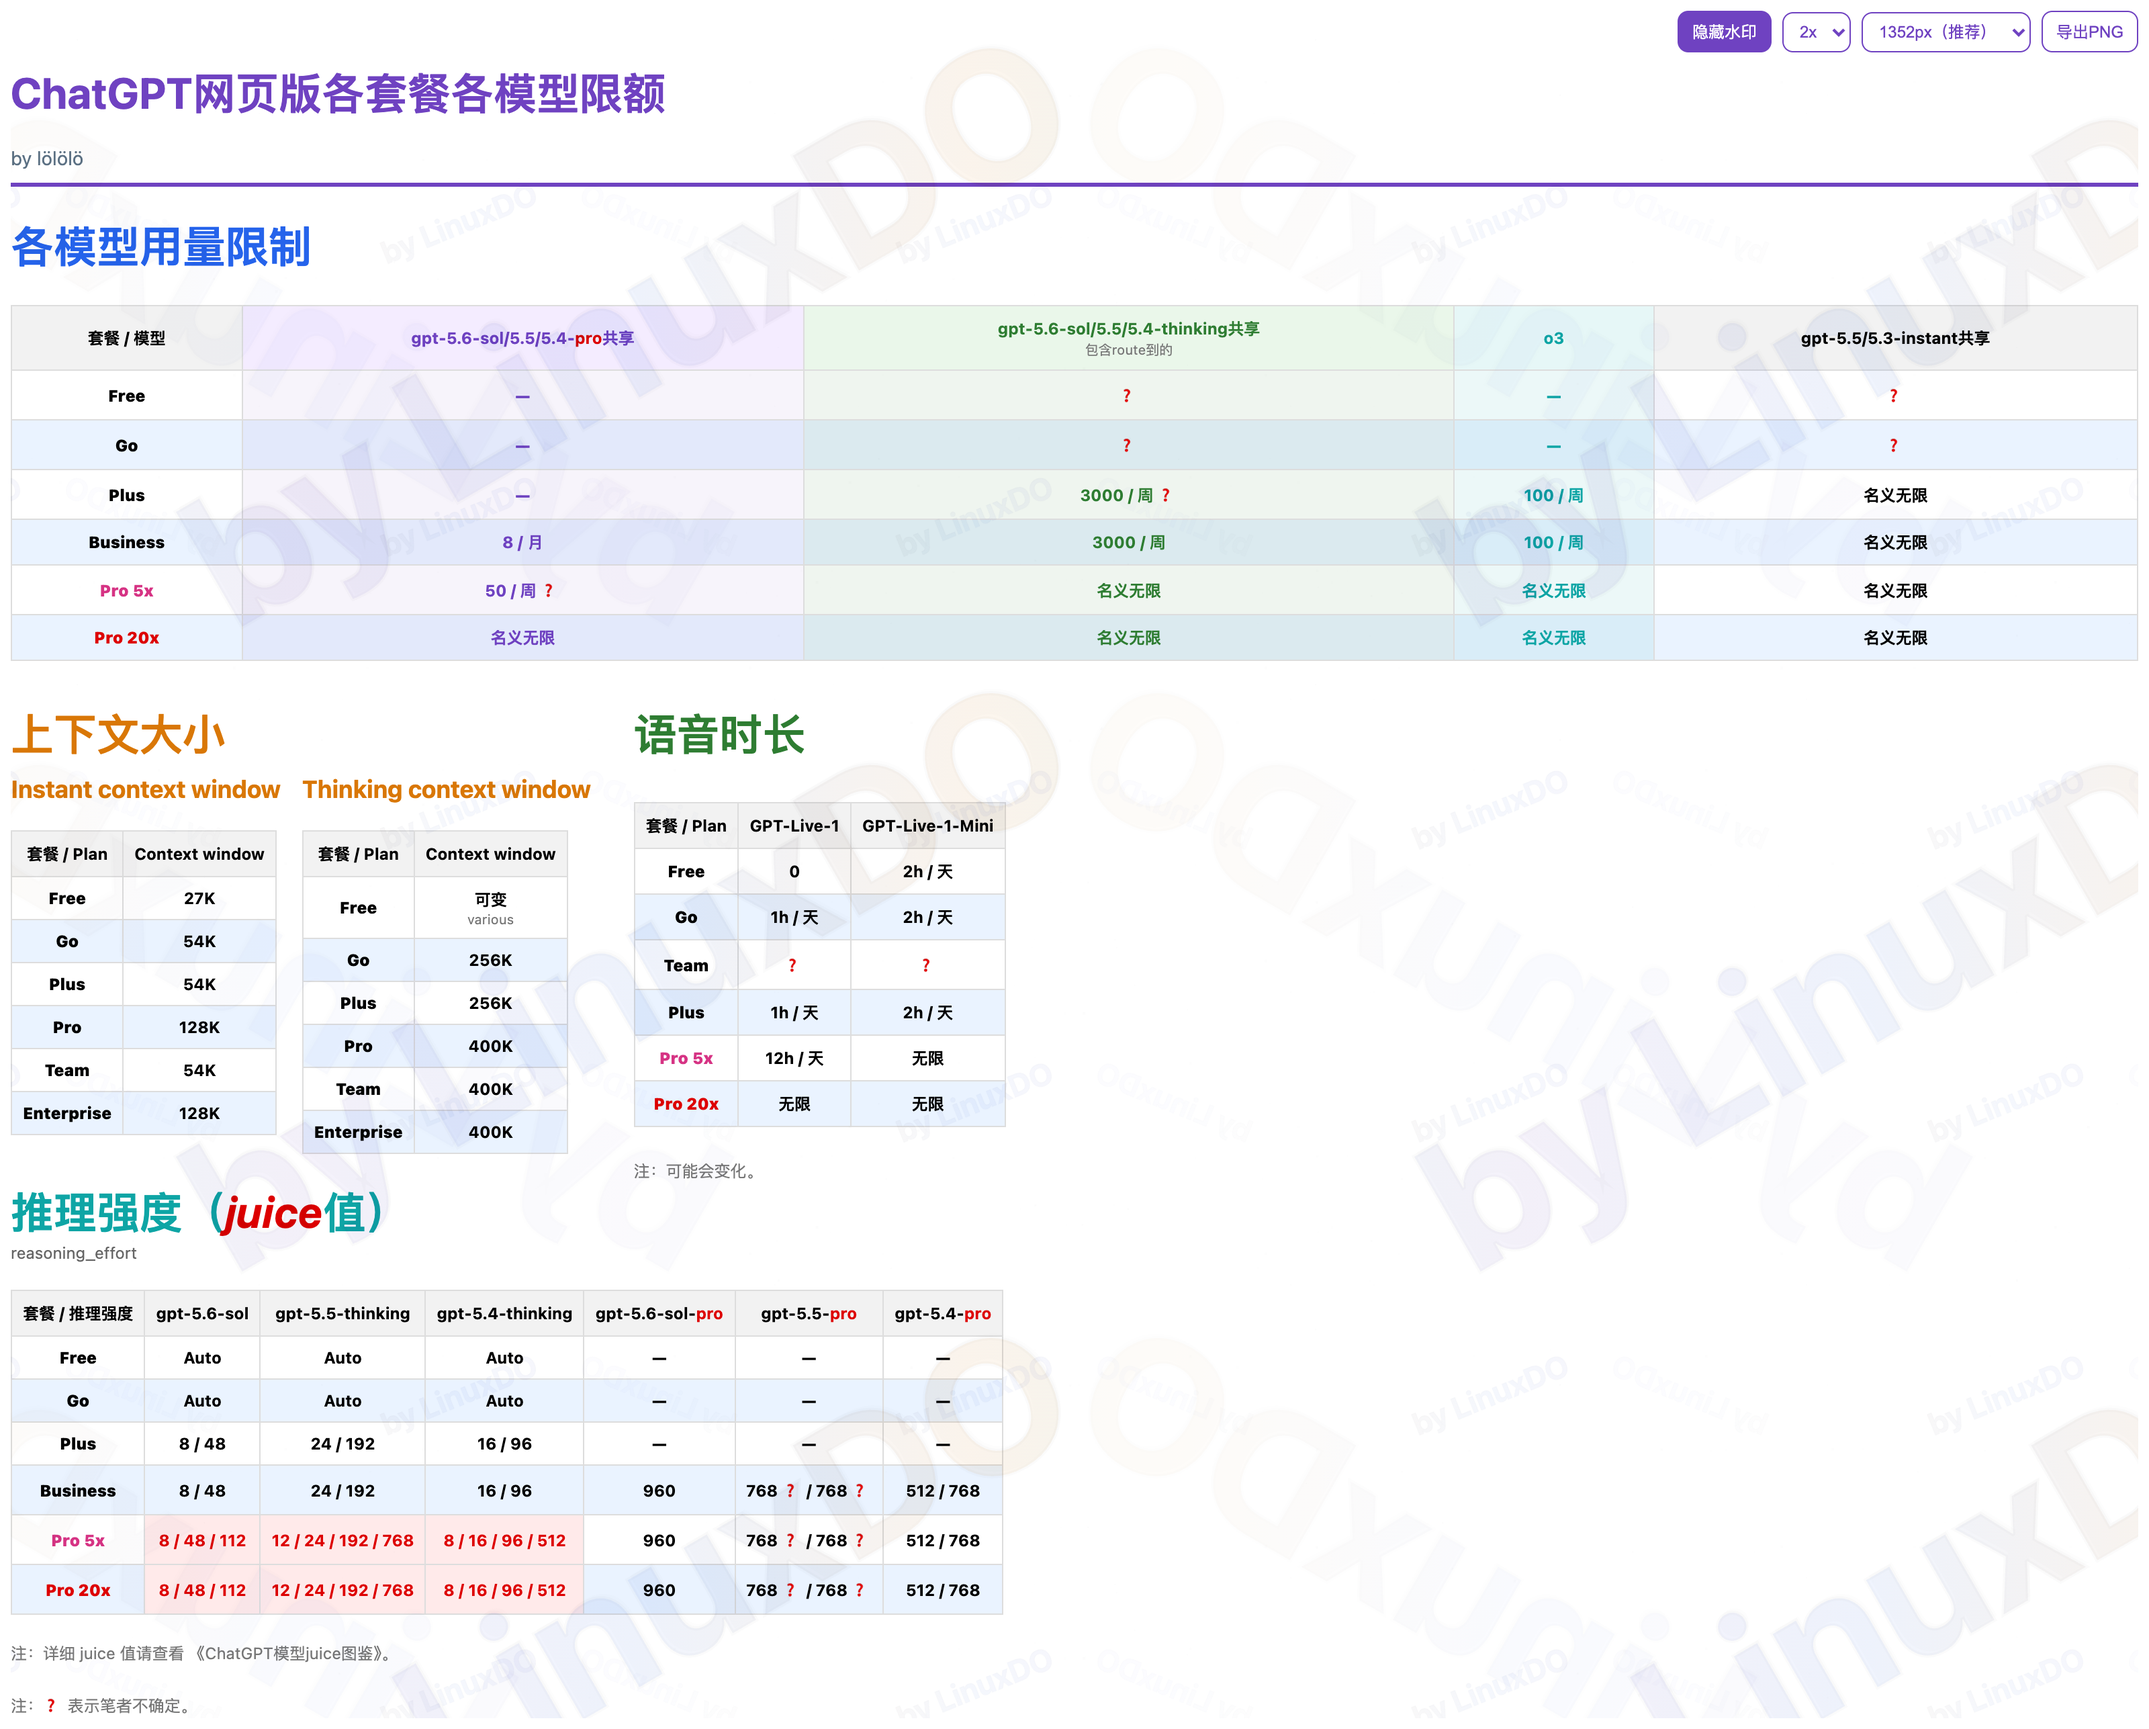
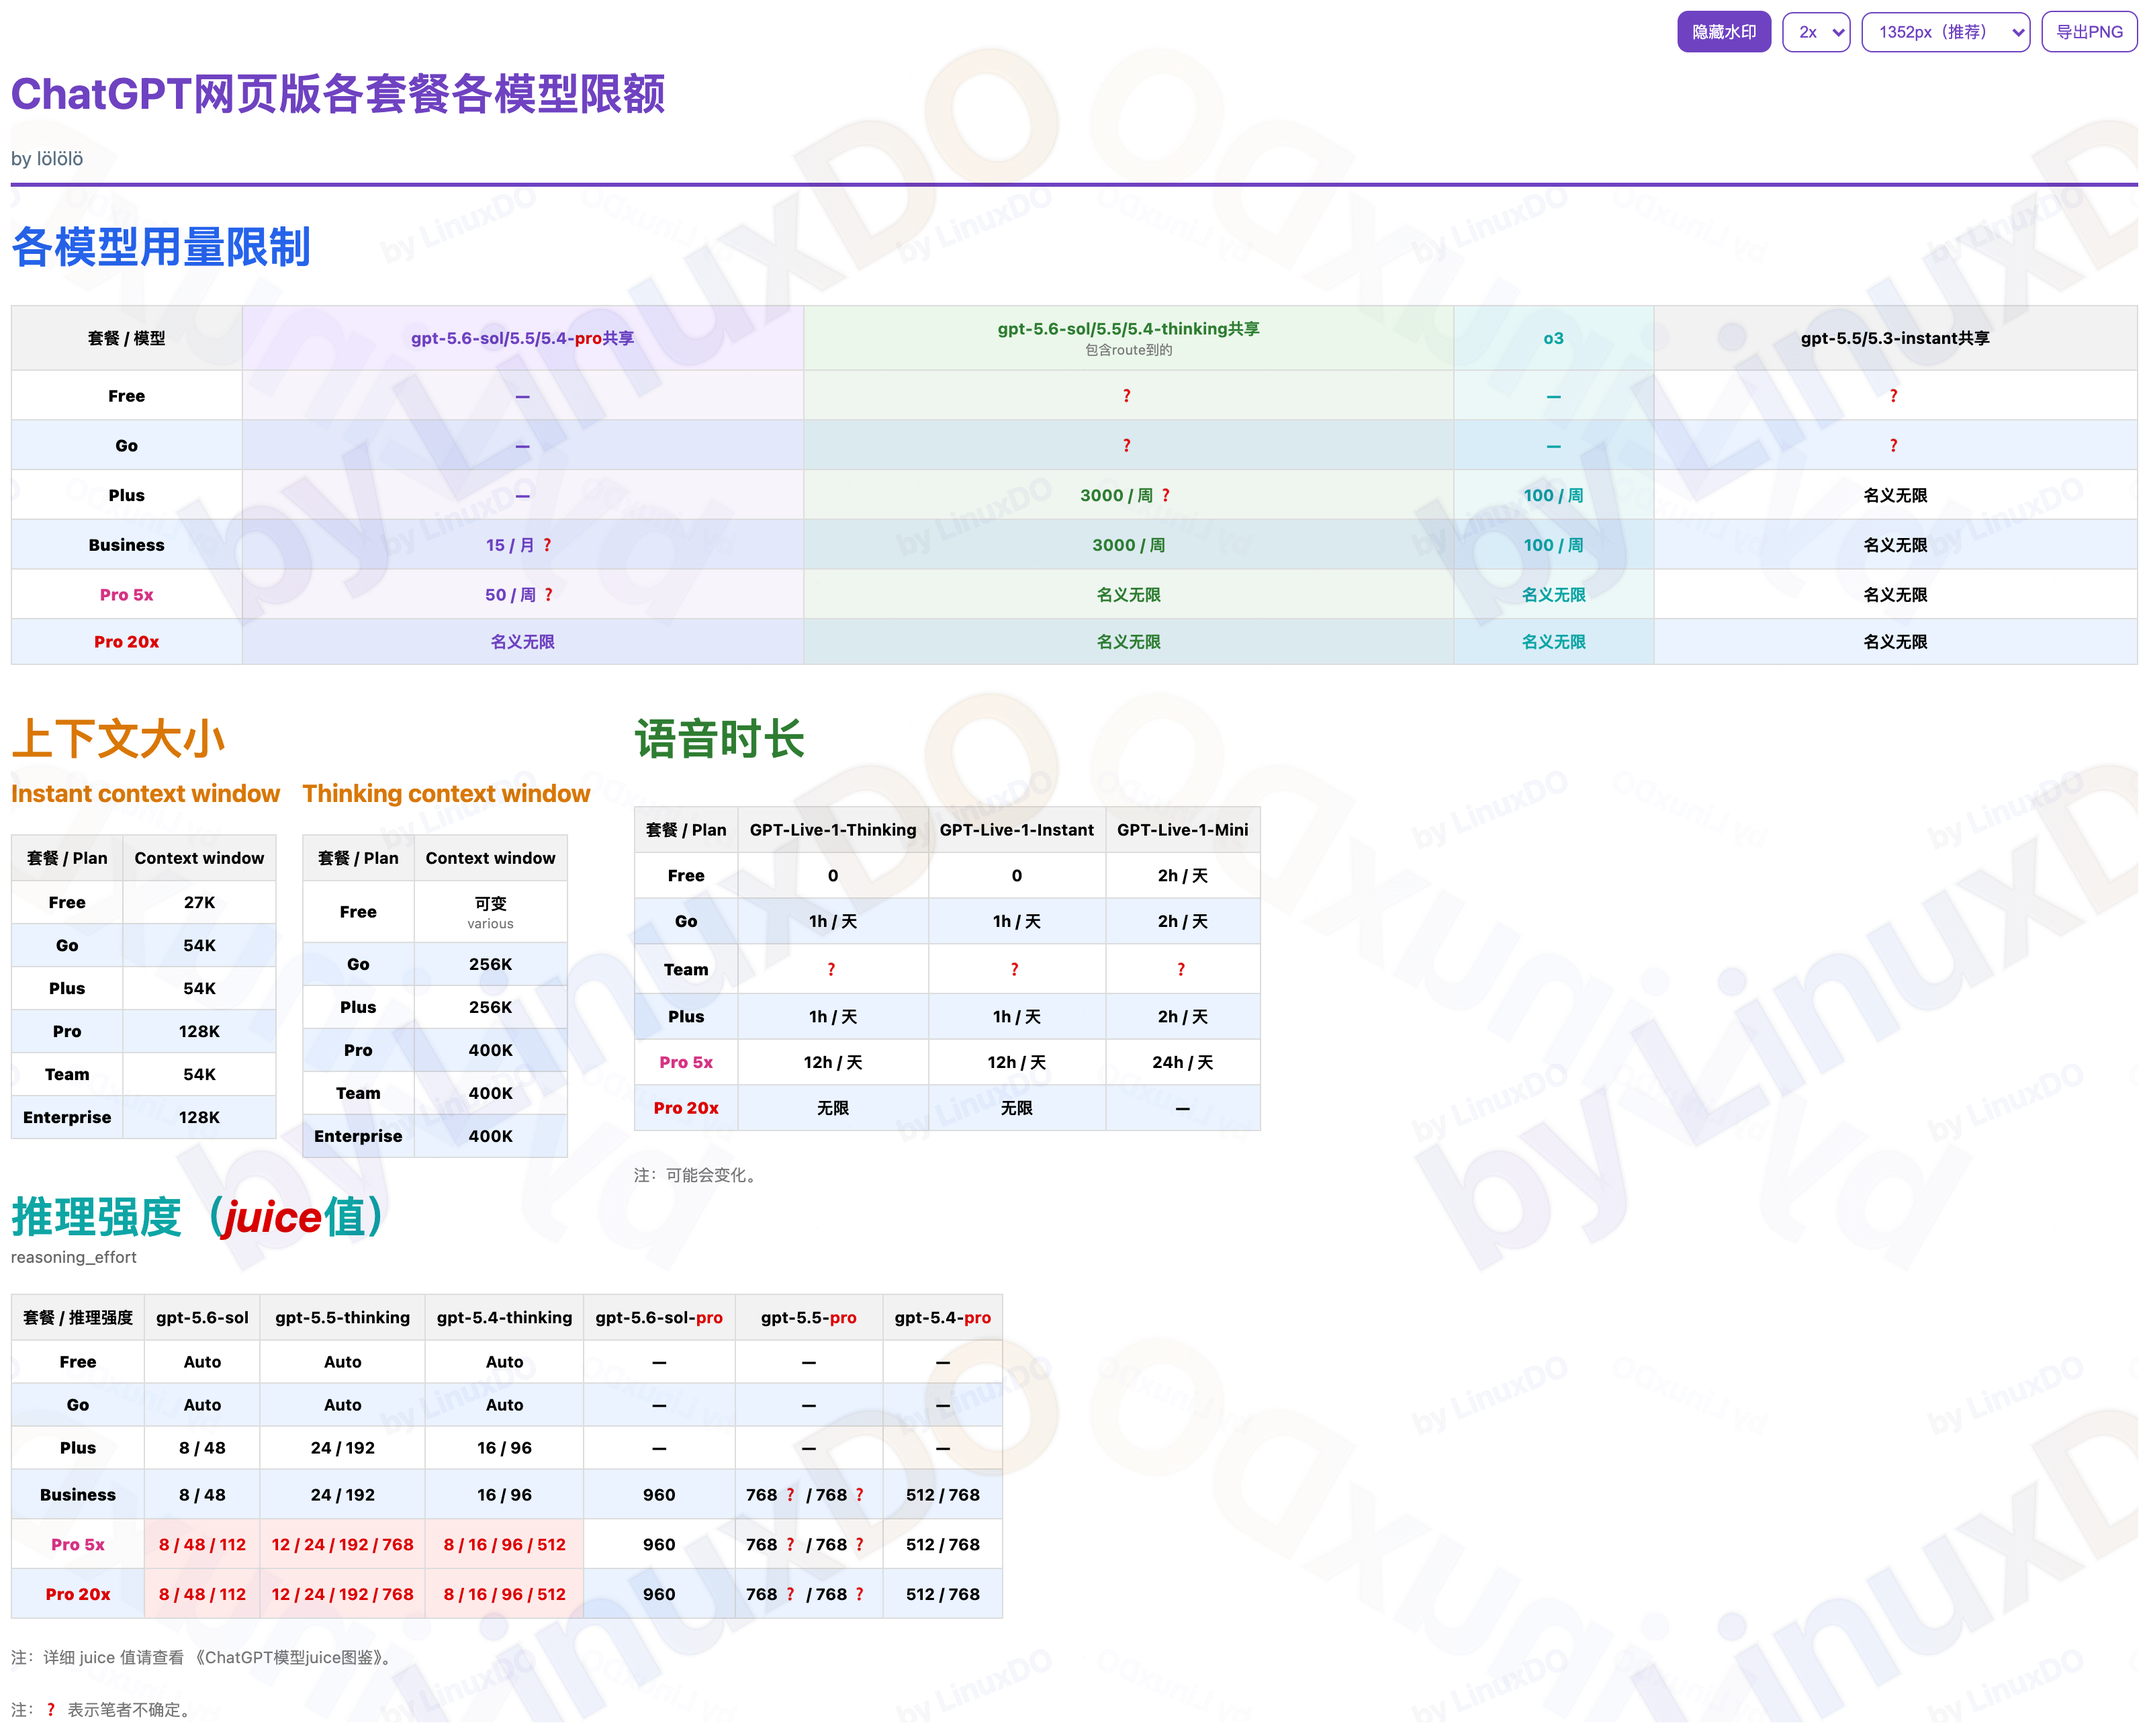
2026.07.16-1: Update GPT Live and Business limits

diff --git a/README.md b/README.md
@@ -6,7 +6,7 @@ Maintenance rules for future GPT editors:
 2) The second line must stay as the Linux.Do website link.
 -->
 
-2026.07.15-1
+2026.07.16-1
 
 [Linux.Do](https://linux.do)
 
